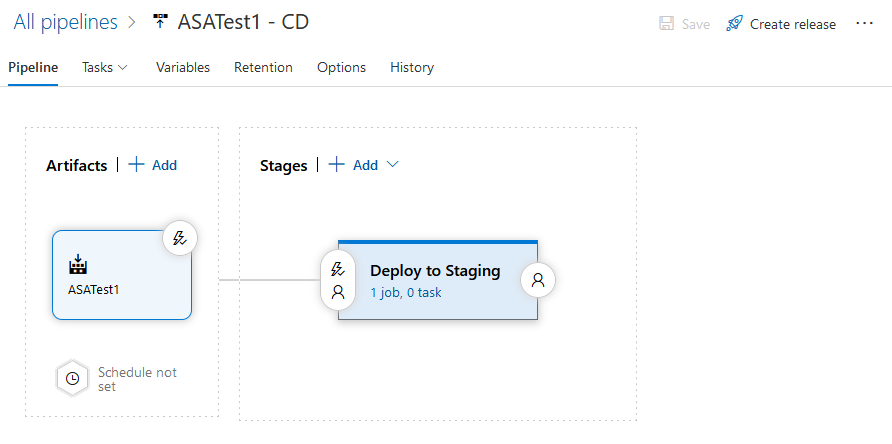
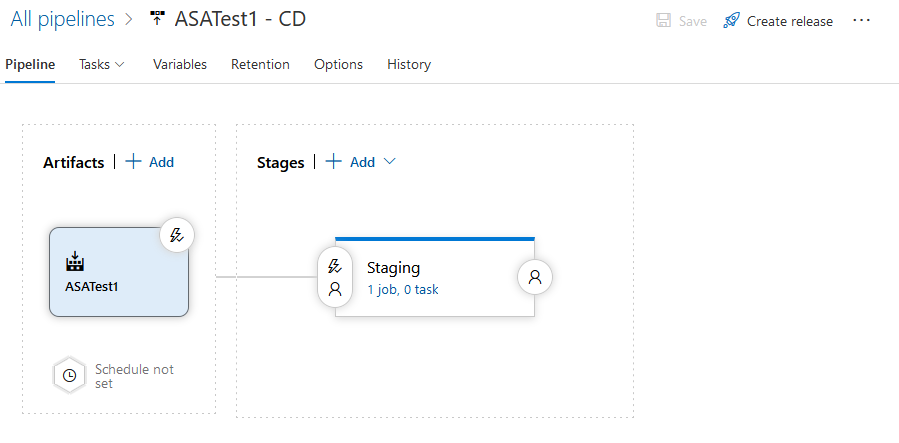
Publish first draft

diff --git a/_posts/2020-01-07-asa-alm-104.md b/_posts/2020-01-07-asa-alm-104.md
@@ -51,12 +51,16 @@ As described above, we need a KeyVault and a couple of variable groups. Let's cr
 
 The creation of the KeyVault, and management and its secrets, can be done via the [Azure portal](https://docs.microsoft.com/en-us/azure/key-vault/quick-create-portal), the [Azure CLI](https://docs.microsoft.com/en-us/azure/key-vault/quick-create-cli) or the [Azure PowerShell Az](https://docs.microsoft.com/en-us/azure/key-vault/quick-create-powershell) module.
 
-Let's put that KeyVault in its own resource group, `rg-infra` for me, or at least the shared resource group, `rg-shared`, but not in the staging resource group, `rg-staging`. That way it will be more natural to reuse it and its secrets across environments and potentially projects (hello governance), and make it more durable - since the point of having a staging resource group is to be able to delete and recreate it at will.
+We'll name it `ASATest1KeyVault`, and put it in its own resource group, `rg-infra` for me, or at least the shared resource group, `rg-shared`, but not in the staging resource group, `rg-staging`. 
+
+That way it will be more natural to re-use it and its secrets across environments and potentially projects (hello governance), and also make it more durable - since the point of having a staging resource group is to be able to delete and recreate it at will.
 
 Once created, we'll create the **secrets** we need, in this case:
 
 - name: `kvinputIoTHub1key`, value: the key of the IoT Hub we're using as our live input
 - name: `kvoutputBlobStorage1key`, value: the key of the storage account we're using as our live output
+
+Note that I've already had the `authenticate` process hanging when trying to link the KeyVault in the Variable Group. I solved that by manually creating an access policy in the KeyVault for the Azure DevOps application principal (think service account) of my DevOps project with List/Get permissions on Secrets. The application principal id can be found in the Azure DevOps project **settings** (bottom left), `Service Connections` tab, selecting the right subscription then clicking on `Edit` and finally `use the full version of the service connection dialog`. It should be under `Service principal client ID`.
 
 ### Variable Groups
 
@@ -65,7 +69,7 @@ Back in Azure DevOps, let's go back to **Pipelines** > **Library** where [variab
 We should already see the variable group we created [previously](https://www.eiden.ca/asa-alm-103/), hosting our resource group name variable (`StagingVariableGroup`). We can add the 3 additional variables required for release:
 
 - name: `vg-ResourceGroup`, value: `rg-asateststaging`
-- name: `vg-ASAJobNAme`,value: `MyStreamingJobstaging`
+- name: `vg-ASAJobName`,value: `MyStreamingJobstaging`
 - name: `vg-Location`,value: `Canada Central`
 - name: `vg-OutputStartMode`,value: `LastOutputEventTime`
 
@@ -75,7 +79,7 @@ We have our inputs, we can create our release pipeline.
 
 ## Release pipeline
 
-The easiest way to get starter here is to go to the latest successful build, and trigger a release from there. Another option is to go straight to **Releases**, under **Builds**, and start from there.
+The easiest way to get started here is to go to the latest successful build, and trigger a release from there. Another option is to go straight to **Releases**, under **Builds**, and start from there.
 
 ![Screenshot of a successful build, top right is highlighted a Release button](https://github.com/Fleid/fleid.github.io/blob/master/_posts/201912_asa_alm101/asa_alm104_newRelease.png?raw=true)
 
@@ -85,16 +89,86 @@ We should now have a simple release pipeline, triggered from a build - from whic
 
 ![Screenshot of empty release pipeline](https://github.com/Fleid/fleid.github.io/blob/master/_posts/201912_asa_alm101/asa_alm104_emptyRelease.png?raw=true)
 
+By default that pipeline is in "**Continuous deployment**" mode, meaning a release is created every time a new build is available. It can be changed by clicking on the little lightning next to the build icon. 
 
+For kicks, we can create a new release, and observe how nothing happens since our Staging stage is empty. Let's think about what needs to happen during our release.
 
+Finally, we need to allow the release pipeline to access the variable groups we created earlier. In **Variables** above the schema, in the **Variable groups** tab, we should `Link variable group` both for `KeyVaultVariableGroup` and `StagingVariableGroup`. 
 
 ### Steps
 
-### deploy.ps1
+This one is straightforward: 
+
+- The **first step** is to gather our variables
+- The **second step** is to update our **ARM template parameters file** with them
+- The **third step** is to execute the ARM deployment in `incremental` mode (nothing is done if nothing has changed)
+
+Since we're on a roll with PowerShell, let's just keep using it.
+
+### release.ps1
+
+I have to be honest, wiring KeyVault credentials from a variable group to a FilePath script (not inline) has been a struggle. Most of the documentation explains [how to do that for YAML mode](https://docs.microsoft.com/en-us/azure/devops/pipelines/process/variables?view=azure-devops&tabs=yaml%2Cbatch#secret-variables) (with YAML syntax) which is not generally available for releases, only builds. So I ended up just bypassing the whole topic and grabbing the credentials directly from PowerShell using `Get-AzKeyVaultSecret` (so yes, the KeyVault variable group is actually not necessary in what follows). This is a temporary workaround that should be resolved when the YAML experience finally get released.
+
+
+In our `deploy` folder, let's add a [release.ps1](https://gist.github.com/Fleid/03567f6dc7e76d632ceb58c8ab667578) file containing :
+
+```PowerShell
+# Step 1: map arguments
+
+write-host "101 - Mapping arguments"
+
+$targetResourceGroup = ${ENV:VG-RESOURCEGROUP}
+$liveInputIoTHub1key = (Get-AzKeyVaultSecret -VaultName "ASATest1KeyVault" -Name "kvinputIoTHub1key").SecretValueText
+$liveOutputBlobStorage1key = (Get-AzKeyVaultSecret -VaultName "ASATest1KeyVault" -Name "kvoutputBlobStorage1key").SecretValueText
+
+# Step 2 : Update parameters with live values
+
+$output = "$ENV:SYSTEM_ARTIFACTSDIRECTORY\$ENV:RELEASE_PRIMARYARTIFACTSOURCEALIAS\drop"
+
+write-host "201 - Inserting live parameters"
+
+$parametersData = Get-Content $output"\ASAtest1.JobTemplate.parameters.json" | ConvertFrom-Json
+
+$parametersData.parameters.Input_IoTHub1_sharedAccessPolicyKey.value = $liveInputIoTHub1key
+$parametersData.parameters.Output_BlobStorage1_Storage1_accountKey.value = $liveOutputBlobStorage1key 
+
+
+$parametersData.parameters.StreamAnalyticsJobName.value = "${ENV:VG-ASAJOBNAME}"
+$parametersData.parameters.Location.value = "${ENV:VG-LOCATION}"
+$parametersData.parameters.OutputStartMode.value  = "${ENV:VG-OUTPUTSTARTMODE}"
+
+write-host "202 - Generating validation parameter file"
+$parametersData | ConvertTo-Json | Out-File $output"\ASAtest1.JobTemplate.parameters.final.json"
+
+# Step 3: execute the deployment
+
+write-host "301 - Executing Incremental ARM RG Deployment"
+
+New-AzResourceGroupDeployment `
+  -ResourceGroupName $targetResourceGroup `
+  -TemplateFile $output"\ASAtest1.JobTemplate.json" `
+  -TemplateParameterFile $output"\ASAtest1.JobTemplate.parameters.final.json" `
+  -Mode Incremental
+
+# Step 9 : Done
+write-host "999 - All done"
+```
+
+As discussed above, we had to be clever to load the KeyVault secrets. After that it's straightforward compared to our build script. Talking about `build.ps1`, now we understand why we had to include a `release.ps1` in the artifacts folder: so it can be used in the release pipeline which doesn't have access to the repository anymore.
+
+### Azure Powershell task
+
+The final step is to create a task in our `Staging` stage of the release pipeline to run `release.ps1`. In the stage screen we can add a new **Azure Powershell** task, linked to our Azure subscription, pointing to `release.ps1` in the artifact dropped files (easier done via the `...`), with script arguments for our credentials (not actually used, as discussed above) `-inputIoTHub1key $(kvinputIoTHub1key) -outputBlobStorage1key $(kvoutputBlobStorage1key)` using the **Latest installed version** of Powershell.
+
+![Screenshot of the configured task](https://github.com/Fleid/fleid.github.io/blob/master/_posts/201912_asa_alm101/asa_alm104_psTask.png?raw=true)
 
 ## Success
 
-A warning on CI/CD setups and 24/7 compute resources such as an ASA job: pushing code to the origin repository will re-start them. So remember to turn them back off, or unplug the pipeline if need be, or better - script it.
+Once everything is setup, the release pipeline should be happy and running. We can try that by updating our query (I just added a comment), commiting/pushing and observing how the change hands up in the live job. Of course this will trigger a restart of the job, but since we're restarting in `LastOutputEventTime` mode we will not loose any data (but potentially [generate duplicates](https://docs.microsoft.com/en-us/stream-analytics-query/event-delivery-guarantees-azure-stream-analytics)).
+
+![Screenshot of the configured task](https://github.com/Fleid/fleid.github.io/blob/master/_posts/201912_asa_alm101/asa_alm104_releaseSuccess.png?raw=true)
+
+**A final warning** on CI/CD setups and 24/7 compute resources such as an ASA job: pushing code to the origin repository will re-start them. So let's remember to turn them back off, or unplug the pipeline if need be...
 
 ## Next steps
 

diff --git a/_posts/2019-12-30-asa-alm103.md b/_posts/2019-12-30-asa-alm103.md
@@ -166,7 +166,7 @@ In **Step 2** we will replace our `null` parameters (credentials and secrets) by
 
 In **Step 3** we will invoke `Test-AzResourceGroupDeployment` to test our templates, and throw an error if the test fails. We want the whole build to fail if the test fails.
 
-In **Step 4** we move our release script to the staging directory - but that's a spoiler, we'll look into it in the next article.
+In **Step 4** we move our release script to the staging directory - but that's a spoiler, we'll look into it in the next article. We may need to add an empty `release.ps1` file in the `deploy` folder if that step triggers an error, but it shouldn't.
 
 ![Updated illustration of the pipeline](https://github.com/Fleid/fleid.github.io/blob/master/_posts/201912_asa_alm101/asa_alm103_steps2.png?raw=true)
 
